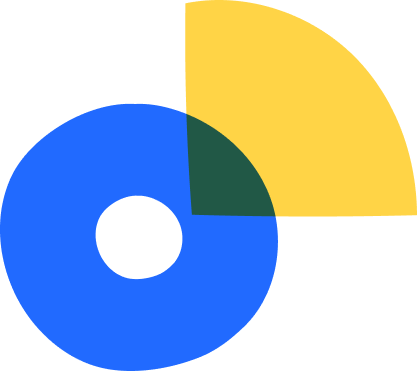
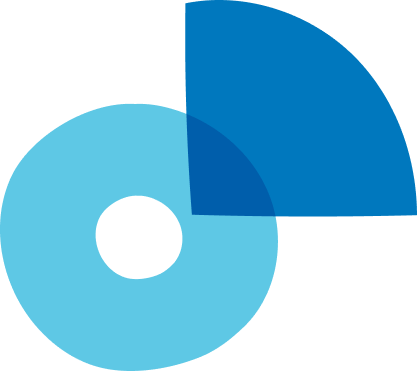
changed header images, styles

diff --git a/index.html b/index.html
@@ -20,23 +20,10 @@
 </head>
 
 <body>
-	<!-- <section class="maincontent">
-		<section>
-			<p id="channel-title"></p>
-			<p id="channel-description"></p>
-		</section> -->
 	<header>
 		<nav>
 
 			<img src="Assets/Group 2.svg" alt="Logo">
-			<!-- <ul>
-					<li><a>Learn</a></li>
-					<li><a>Create</a></li>
-					<li><a>Join</a></li>
-					<li><a>Explore</a></li>
-				</ul> -->
-
-
 			<a class="button-link" href="https://www.are.na/rice-gallardo/risograph-5nwec8aul3u"> Arena <svg xmlns="http://www.w3.org/2000/svg" viewBox="0 0 100 50" fill="none">
 					<g clip-path="url(#clip0_82_41092)">
 						<path d="M32.5 23.0002C54.9525 26.9752 56.7376 24.1277 79.4001 25.5977M69.0826 42.0077C75.4851 33.1027 86.2576 32.2277 93.9326 25.0702C86.5476 21.9752 71.8601 15.0127 67.1951 7.99268" stroke="black" stroke-width="4" stroke-miterlimit="10" stroke-linecap="round" stroke-linejoin="round" />
@@ -59,26 +46,26 @@
 			<div class="mask-container">
 				<div class='mask'>
 					<svg height="400" width="400">
-						<circle cx="245" cy="220" r="100" fill="#5E7DCD" class='multiply' />
-						<circle cx="120" cy="220" r="100" fill="#5EBB63" class='multiply' />
-						<circle cx="180" cy="120" r="100" fill="#F7DE5E" class='multiply' />
+						<circle cx="245" cy="220" r="100" fill="#0078BE" class='multiply' />
+						<circle cx="120" cy="220" r="100" fill="#05AA93" class='multiply' />
+						<circle cx="180" cy="120" r="100" fill="#F984CA" class='multiply' />
 					</svg>
 				</div>
 			</div>
-			<picture class="mask-container block-img"><img class="mask-shape1 img-contain" src="Assets/shapeslime.png"></picture>
+			<picture class="mask-container block-img"><img class="mask-shape1 img-contain" src="Assets/slime.png"></picture>
+			<span class=" textlink-block"><p>Guides</p></span>
 			<picture class="mask-container block-img"><img class="img-contain" src="Assets/smile.png"></picture>
-			<a class="textlink-block">Guides</a>
 
 			<h1 id="channel-title" class="h1-grid">
 				Risograph
 			</h1>
 
-			<picture class="mask-container"><img src="Assets/print.gif"></picture>
+			<picture class="mask-container block-img"><img class="mask-shape1  img-contain" src="Assets/shapes.png"></picture>
 			<span class="info-block">
 				<p> Riso is a printing method</p>
 			</span>
-			<a class="textlink-block">Groups</a>
-			<picture class="mask-container block-img"><img class="mask-shape2 img-contain" src="Assets/shapes.png"></picture>
+			<p class="textlink-block">Groups</p>
+			<picture class="mask-container block-img"><img class="mask-shape2 img-contain" src="Assets/art.png"></picture>
 			<a class="textlink-block"> Samples</a>
 			<span class="info-block">
 				<p>42 blocks of material</p>

diff --git a/style.css b/style.css
@@ -33,6 +33,8 @@
 
 }
 
+
+
 h1 {
 	font-family: var(--decorative-font);
 	color: var(--primary-color);
@@ -171,7 +173,6 @@ footer {
 		border: 3px solid var(--black);
 
 		p {
-			margin-bottom: calc(2* var(--button-size));
 			font-size: 40px;
 			line-height: 58px;
 		}
@@ -207,47 +208,46 @@ footer {
 
 	.description {
 		p {
-			margin-bottom: calc(2* var(--button-size));
 			font-size: 40px;
 			line-height: 60px;
 		}
-		
+
 	}
 
 	.description {
 		padding: calc(2* var(--base-size));
 		margin-block: calc(8*var(--base-size));
-	
+
 	}
 
 }
 
-@media (min-width:1024px){
+@media (min-width:1024px) {
 	.description {
 		border: 4px solid var(--black);
 		padding: 80px;
+
 		p {
-			margin-bottom: calc(2* var(--button-size));
 			font-size: 40px;
 			line-height: 60px;
 		}
-		
+
 	}
 
 	.button {
 
 		height: 70px;
-	
+
 		&>svg {
-	
+
 			width: 60px;
 			height: 60px;
 
 		}
 	}
 
-	
-	
+
+
 }
 
 
@@ -260,7 +260,7 @@ footer {
 
 	}
 
-	body{
+	body {
 		max-width: 1600px;
 		margin: auto;
 	}
@@ -272,12 +272,13 @@ footer {
 
 	.description {
 		border: 6px solid var(--black);
-		padding:120px;
+		padding: 120px;
+
 		p {
 			font-size: 60px;
 			line-height: 80px;
 		}
-		
+
 	}
 
 }

diff --git a/blockstyles.css b/blockstyles.css
@@ -1,4 +1,3 @@
-
 /* Grids */
 
 
@@ -78,12 +77,15 @@
 	display: flex;
 	justify-content: center;
 	align-items: center;
-	background-color: var(--secondary-color);
+	
 	font-size: var(--button-size);
 	font-family: var(--decorative-font);
 	text-align: center;
 
 }
+
+
+
 
 
 
@@ -147,34 +149,35 @@
 
 		margin-inline: none;
 
+	}
+
+	.info-block {
+		font-size: 26px;
+	}
+
 }
 
-.info-block {
-	font-size: 26px;
-}
 
-}
-
-
-@media(min-width:700px){
+@media(min-width:700px) {
 	:root {
 		--base-size: 24px;
 		--button-size: 36px;
 		font-size: var(--base-size);
 	}
+
 	.info-block {
 		font-size: 32px;
 	}
 }
 
-@media (min-width:1024px){
+@media (min-width:1024px) {
 
 	:root {
 		--base-size: 24px;
 		--button-size: 32px;
 		font-size: var(--base-size);
 	}
-	
+
 	.grid-pattern {
 		grid-template-columns: repeat(6, 1fr);
 
@@ -185,14 +188,14 @@
 		}
 
 	}
-	
+
 	.info-block {
 		font-size: var(--base-size);
 	}
 
 	.textlink-block {
 		font-size: 30px;
-	
+
 	}
 
 }
@@ -222,7 +225,7 @@
 
 	.textlink-block {
 		font-size: 44px;
-	
+
 	}
 
 
